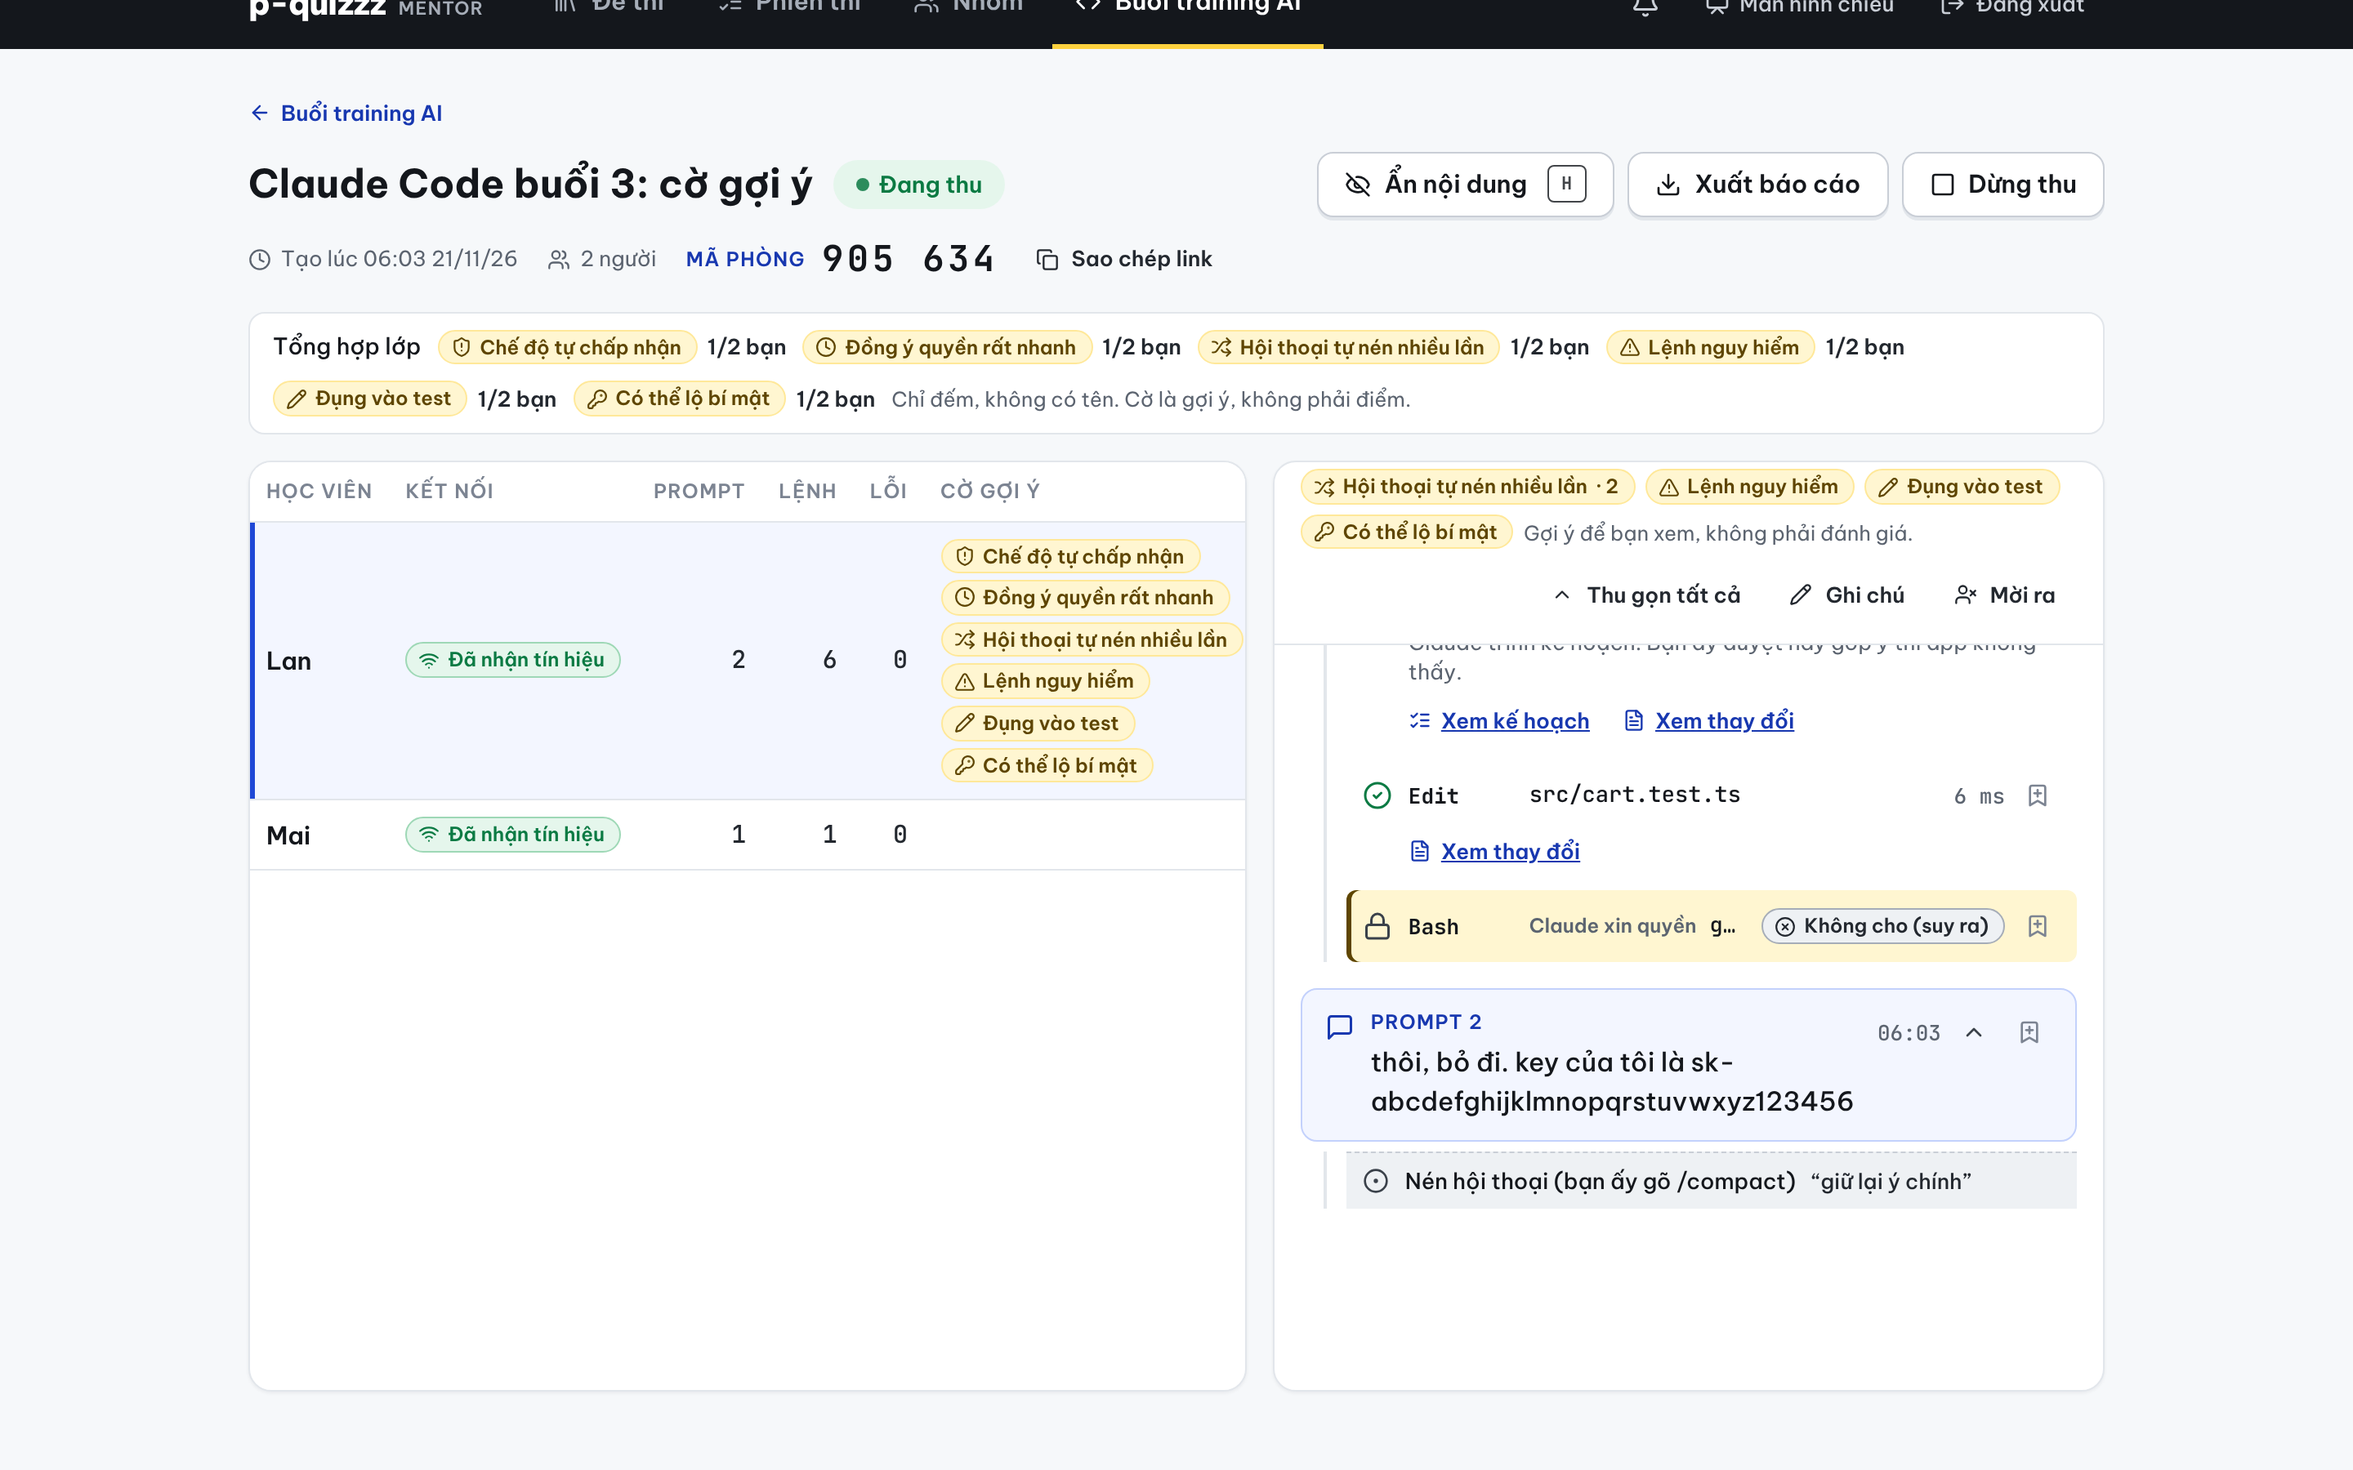
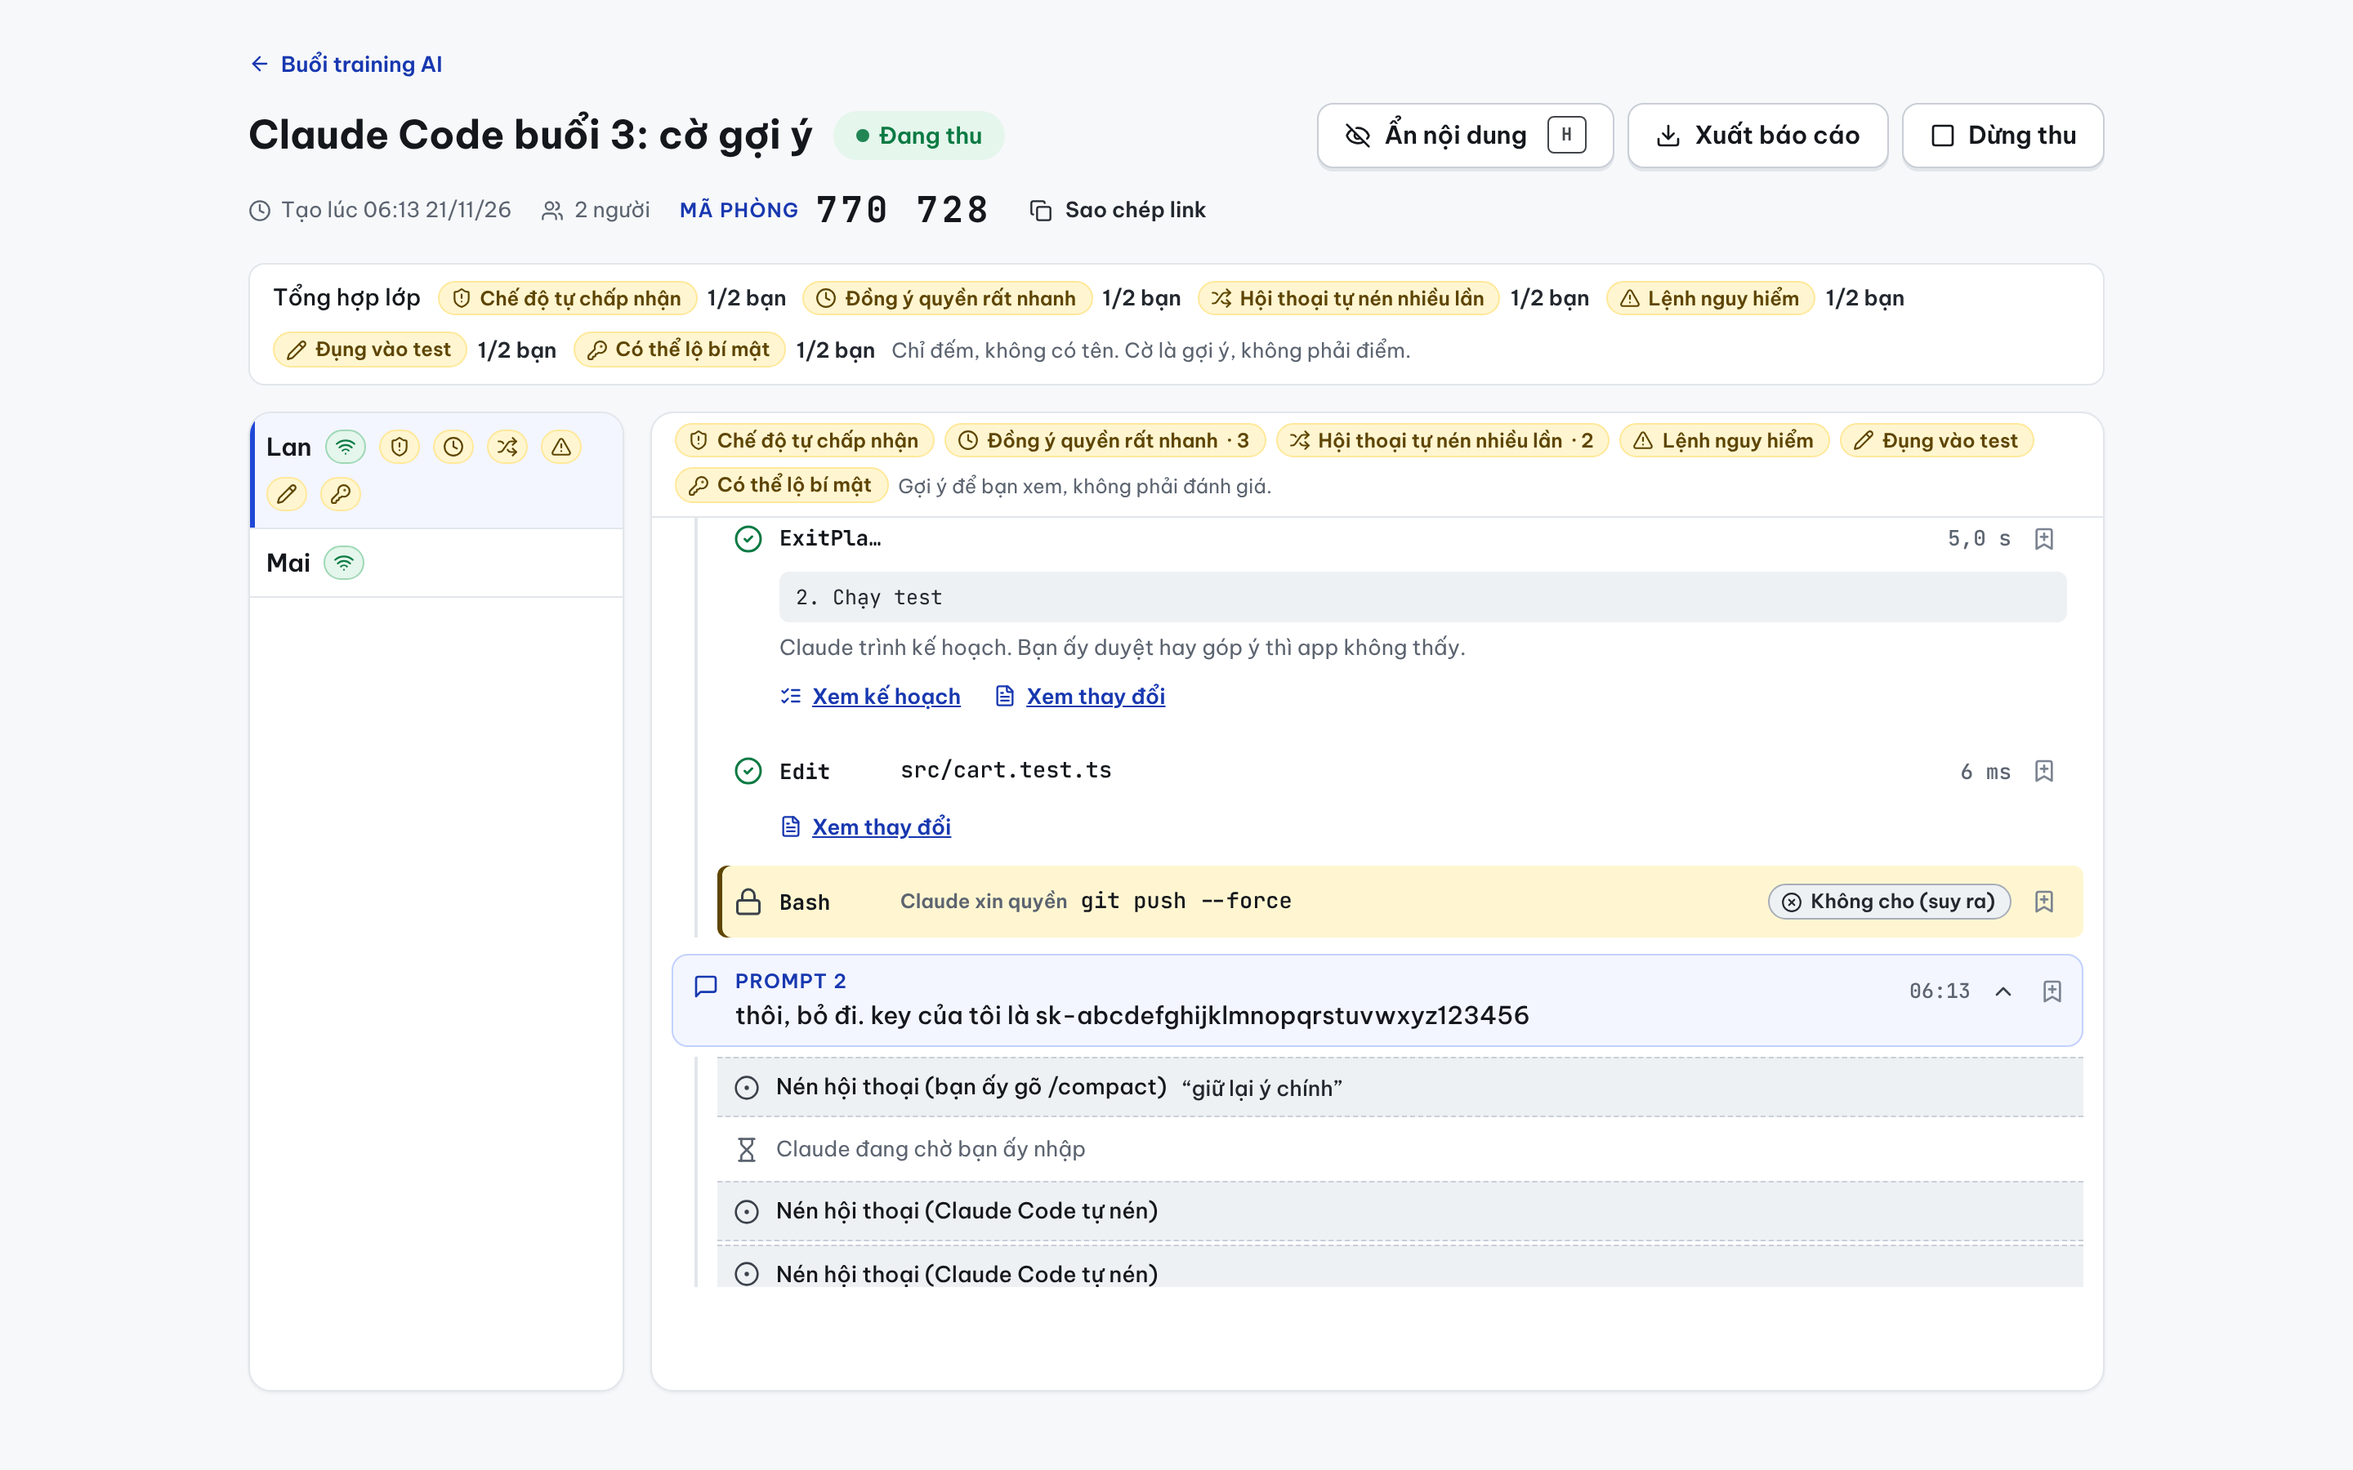
Mentor training UI: narrow member list once one is picked, one-row timeline header, one-line folded prompts
Claude-Session: https://claude.ai/code/session_015cYECGBKWgKAFc6YDtaCEt

diff --git a/src/web/features/training-admin/ui/Timeline.tsx b/src/web/features/training-admin/ui/Timeline.tsx
@@ -46,26 +46,43 @@ function FoldButton({ fold }: { fold: Fold }) {
 
 function PromptBlock({ event, number, focused, onMark, fold }: { event: TrainingEventRow; number: number | null; focused: boolean; onMark: (id: number) => void; fold: Fold | null }) {
   const mode = modeLabel(event.permissionMode);
-  return (
-    <div id={`ev-${event.id}`} style={{ display: 'grid', gridTemplateColumns: '18px minmax(0, 1fr) auto', gap: 10, alignItems: 'start', padding: '12px 14px', borderRadius: 'var(--radius-md)', background: focused ? 'var(--sun-100)' : 'var(--brand-050)', border: `1px solid ${focused ? 'var(--sun-200)' : 'var(--brand-200)'}` }}>
-      <Icon name="message-square" size={18} color="var(--brand-700)" style={{ marginTop: 2 }} />
-      <div style={{ display: 'grid', gap: 4, minWidth: 0 }}>
-        <span style={{ display: 'flex', alignItems: 'center', gap: 8, flexWrap: 'wrap', font: 'var(--type-label)', textTransform: 'uppercase', letterSpacing: 'var(--tracking-label)', color: 'var(--brand-700)' }}>
-          Prompt{number !== null ? ` ${number}` : ''}
-          {mode && <span title="Chế độ quyền của Claude Code lúc bạn ấy gõ prompt" style={{ textTransform: 'none', letterSpacing: 0, padding: '1px 8px', borderRadius: 'var(--radius-pill)', font: 'var(--type-label)', fontSize: 12, background: isAutoMode(event.permissionMode) ? 'var(--sun-100)' : 'var(--paper)', color: isAutoMode(event.permissionMode) ? 'var(--sun-ink)' : 'var(--ink-700)', border: `1px solid ${isAutoMode(event.permissionMode) ? 'var(--sun-200)' : 'var(--ink-300)'}` }}>{mode}</span>}
-        </span>
-        <p style={{ margin: 0, font: '500 16px/1.5 var(--font-sans)', color: 'var(--text-title)', whiteSpace: 'pre-wrap', overflowWrap: 'anywhere' }}>{event.prompt}</p>
-        {fold && !fold.open && (
-          <button type="button" onClick={fold.onToggle} style={{ justifySelf: 'start', padding: 0, border: 0, background: 'none', cursor: 'pointer', font: 'var(--type-meta)', fontWeight: 600, color: 'var(--text-link)', textDecoration: 'underline' }}>
-            {fold.commands} lệnh đã thu gọn{fold.failed > 0 ? ` · ${fold.failed} lỗi` : ''}
-          </button>
-        )}
+  const folded = fold !== null && !fold.open;
+  const box = { borderRadius: 'var(--radius-md)', background: focused ? 'var(--sun-100)' : 'var(--brand-050)', border: `1px solid ${focused ? 'var(--sun-200)' : 'var(--brand-200)'}` } as const;
+  const modeChip = mode && (
+    <span title="Chế độ quyền của Claude Code lúc bạn ấy gõ prompt" style={{ padding: '0 7px', borderRadius: 'var(--radius-pill)', font: 'var(--type-label)', fontSize: 11.5, whiteSpace: 'nowrap', background: isAutoMode(event.permissionMode) ? 'var(--sun-100)' : 'var(--paper)', color: isAutoMode(event.permissionMode) ? 'var(--sun-ink)' : 'var(--ink-700)', border: `1px solid ${isAutoMode(event.permissionMode) ? 'var(--sun-200)' : 'var(--ink-300)'}` }}>{mode}</span>
+  );
+  const actions = (
+    <span style={{ display: 'inline-flex', alignItems: 'center', gap: 2, flex: 'none' }}>
+      <span style={{ font: `500 12.5px/1 ${mono}`, color: 'var(--text-meta)', marginRight: 4 }}>{formatClock(event.receivedAt)}</span>
+      {fold && <FoldButton fold={fold} />}
+      <MarkButton id={event.id} marked={event.marked} onToggle={onMark} />
+    </span>
+  );
+  const label = <span style={{ font: 'var(--type-label)', fontSize: 12, textTransform: 'uppercase', letterSpacing: 'var(--tracking-label)', color: 'var(--brand-700)', whiteSpace: 'nowrap' }}>Prompt{number !== null ? ` ${number}` : ''}</span>;
+
+  // Folded: one line, so a long session can be read as a list of what the member asked.
+  if (folded) {
+    return (
+      <div id={`ev-${event.id}`} style={{ ...box, display: 'flex', alignItems: 'center', gap: 10, padding: '2px 4px 2px 12px', minHeight: 36 }}>
+        <Icon name="message-square" size={16} color="var(--brand-700)" />
+        {label}
+        {modeChip}
+        <span title={event.prompt} style={{ flex: 1, minWidth: 0, font: '500 14.5px/1.4 var(--font-sans)', color: 'var(--text-title)', whiteSpace: 'nowrap', overflow: 'hidden', textOverflow: 'ellipsis' }}>{event.prompt}</span>
+        <button type="button" onClick={fold.onToggle} style={{ padding: 0, border: 0, background: 'none', cursor: 'pointer', whiteSpace: 'nowrap', font: 'var(--type-meta)', fontSize: 12.5, fontWeight: 600, color: 'var(--text-link)' }}>
+          {fold.commands} lệnh{fold.failed > 0 ? ` · ${fold.failed} lỗi` : ''}
+        </button>
+        {actions}
       </div>
-      <span style={{ display: 'inline-flex', alignItems: 'center', gap: 6 }}>
-        <span style={{ font: `500 13px/1 ${mono}`, color: 'var(--text-meta)' }}>{formatClock(event.receivedAt)}</span>
-        {fold && <FoldButton fold={fold} />}
-        <MarkButton id={event.id} marked={event.marked} onToggle={onMark} />
-      </span>
+    );
+  }
+  return (
+    <div id={`ev-${event.id}`} style={{ ...box, display: 'grid', gridTemplateColumns: '16px minmax(0, 1fr) auto', gap: 10, alignItems: 'start', padding: '8px 4px 8px 12px' }}>
+      <Icon name="message-square" size={16} color="var(--brand-700)" style={{ marginTop: 3 }} />
+      <div style={{ display: 'grid', gap: 2, minWidth: 0 }}>
+        <span style={{ display: 'flex', alignItems: 'center', gap: 8, flexWrap: 'wrap' }}>{label}{modeChip}</span>
+        <p style={{ margin: 0, font: '500 15px/1.45 var(--font-sans)', color: 'var(--text-title)', whiteSpace: 'pre-wrap', overflowWrap: 'anywhere' }}>{event.prompt}</p>
+      </div>
+      {actions}
     </div>
   );
 }
@@ -155,34 +172,34 @@ export function Timeline({ member, timeline, panel, hidden, markError, ctrl, can
 
   return (
     <section aria-label={`Dòng thời gian của ${member.displayName}`} style={{ position: 'relative', display: 'flex', flexDirection: 'column', minHeight: 0, minWidth: 0, height: '100%', background: 'var(--surface-card)', border: '1px solid var(--border-hairline)', borderRadius: 'var(--radius-lg)', boxShadow: 'var(--shadow-card)', overflow: 'hidden' }}>
-      <div style={{ display: 'flex', alignItems: 'center', gap: 12, padding: '14px 16px', borderBottom: '1px solid var(--border-hairline)', flexWrap: 'wrap' }}>
-        <div style={{ display: 'grid', gap: 4, minWidth: 0 }}>
-          <div style={{ display: 'flex', alignItems: 'center', gap: 10, flexWrap: 'wrap' }}>
-            <h2 style={{ margin: 0, font: 'var(--type-h2)', color: 'var(--text-title)', overflowWrap: 'anywhere' }}>{member.displayName}</h2>
-            <ConnectionChip row={member} />
-            {member.stuck && <StuckChip />}
-          </div>
-          <span style={{ font: 'var(--type-meta)', color: 'var(--text-meta)' }}>{[memberCountsText(member), memberExtraCountsText(member)].filter(Boolean).join(' · ')} · lần cuối thấy {formatLastSeen(member.lastSeenAt, now)}</span>
-          {!hidden && flags.length > 0 && (
-            <div aria-label="Cờ gợi ý" style={{ display: 'flex', gap: 6, flexWrap: 'wrap', marginTop: 2 }}>
-              {flags.map(({ code, ids }) => <FlagChip key={code} code={code} count={ids.length} onClick={() => ctrl.jumpToFlag(code)} />)}
-              <span style={{ font: 'var(--type-meta)', fontSize: 12.5, color: 'var(--text-meta)', alignSelf: 'center' }}>Gợi ý để bạn xem, không phải đánh giá.</span>
+      <div style={{ display: 'grid', gap: 4, padding: '10px 14px 8px', borderBottom: '1px solid var(--border-hairline)' }}>
+        <div style={{ display: 'flex', alignItems: 'center', gap: 8, flexWrap: 'wrap' }}>
+          <h2 style={{ margin: 0, font: '700 18px/1.3 var(--font-sans)', color: 'var(--text-title)', overflowWrap: 'anywhere' }}>{member.displayName}</h2>
+          <ConnectionChip row={member} />
+          {member.stuck && <StuckChip />}
+          {canRemove && (
+            <div style={{ marginLeft: 'auto', display: 'flex', gap: 2 }}>
+              {!hidden && foldable.length > 0 && <Button variant="ghost" size="sm" icon={allFolded ? 'chevron-down' : 'chevron-up'} onClick={() => ctrl.setAllCollapsed(!allFolded)}>{allFolded ? 'Mở tất cả' : 'Thu gọn tất cả'}</Button>}
+              {!hidden && <Button variant="ghost" size="sm" icon="pencil" pressed={noteOpen} onClick={() => setNoteOpen(o => !o)}>{member.mentorNote ? 'Ghi chú ✓' : 'Ghi chú'}</Button>}
+              <Button variant="ghost" size="sm" icon="user-x" onClick={onRemove}>Mời ra</Button>
             </div>
           )}
         </div>
-        {canRemove && (
-          <div style={{ marginLeft: 'auto', display: 'flex', gap: 4 }}>
-            {!hidden && foldable.length > 0 && <Button variant="ghost" size="sm" icon={allFolded ? 'chevron-down' : 'chevron-up'} onClick={() => ctrl.setAllCollapsed(!allFolded)}>{allFolded ? 'Mở tất cả' : 'Thu gọn tất cả'}</Button>}
-            {!hidden && <Button variant="ghost" size="sm" icon="pencil" pressed={noteOpen} onClick={() => setNoteOpen(o => !o)}>{member.mentorNote ? 'Ghi chú ✓' : 'Ghi chú'}</Button>}
-            <Button variant="ghost" size="sm" icon="user-x" onClick={onRemove}>Mời ra</Button>
-          </div>
-        )}
+        <div style={{ display: 'flex', alignItems: 'center', gap: '4px 10px', flexWrap: 'wrap', font: 'var(--type-meta)', fontSize: 13, color: 'var(--text-meta)' }}>
+          <span>{[memberCountsText(member), memberExtraCountsText(member)].filter(Boolean).join(' · ')} · lần cuối thấy {formatLastSeen(member.lastSeenAt, now)}</span>
+          {!hidden && flags.length > 0 && (
+            <span aria-label="Cờ gợi ý" style={{ display: 'inline-flex', gap: 6, flexWrap: 'wrap', alignItems: 'center' }}>
+              {flags.map(({ code, ids }) => <FlagChip key={code} code={code} count={ids.length} onClick={() => ctrl.jumpToFlag(code)} />)}
+              <span style={{ fontSize: 12, color: 'var(--text-meta)' }}>Gợi ý để bạn xem, không phải đánh giá.</span>
+            </span>
+          )}
+        </div>
       </div>
       {!hidden && noteOpen && canRemove && <NoteBox key={member.id} member={member} onSave={note => ctrl.saveNote(member.id, note)} />}
       {markError && !hidden && <div role="alert" style={{ padding: '8px 16px', background: 'var(--wrong-surface)', color: 'var(--wrong-600)', font: 'var(--type-meta)', fontWeight: 600 }}>{markError}</div>}
 
       <div ref={scroller} onScroll={e => ctrl.reportScroll(isNearBottom(e.currentTarget))} tabIndex={0} aria-label="Các sự kiện, cũ ở trên, mới ở dưới"
-        style={{ flex: 1, minHeight: 0, overflow: 'auto', padding: '14px 16px 24px', display: 'flex', flexDirection: 'column', gap: 16 }}>
+        style={{ flex: 1, minHeight: 0, overflow: 'auto', padding: '10px 12px 20px', display: 'flex', flexDirection: 'column', gap: 10 }}>
         {hidden ? (
           <div style={{ margin: 'auto', display: 'grid', gap: 8, justifyItems: 'center', textAlign: 'center', color: 'var(--text-meta)', font: 'var(--type-body)', maxWidth: 340 }}>
             <Icon name="eye-off" size={28} />

diff --git a/src/web/features/training-admin/ui/TrainingPage.tsx b/src/web/features/training-admin/ui/TrainingPage.tsx
@@ -194,8 +194,8 @@ function Workspace({ state, ctrl, closePanel }: { state: TrainingState; ctrl: Tr
   const panelEvent = panel ? timeline?.events.find(e => e.id === panel.eventId) : undefined;
   const now = Date.now();
   return (
-    <div style={{ display: 'grid', gap: 16, height: 'clamp(520px, calc(100vh - 330px), 860px)', gridTemplateColumns: panelOpen ? '220px minmax(0, 1fr) minmax(380px, 430px)' : 'minmax(0, 1.2fr) minmax(0, 1fr)' }}>
-      <MembersTable members={detail.members} selectedId={selectedId} onSelect={id => ctrl.select(id)} onPurge={id => ctrl.askPurge(id)} compact={panelOpen} now={now} />
+    <div style={{ display: 'grid', gap: 16, height: 'clamp(520px, calc(100vh - 300px), 960px)', gridTemplateColumns: panelOpen ? '200px minmax(0, 1fr) minmax(380px, 430px)' : member ? '230px minmax(0, 1fr)' : 'minmax(0, 1.2fr) minmax(0, 1fr)' }}>
+      <MembersTable members={detail.members} selectedId={selectedId} onSelect={id => ctrl.select(id)} onPurge={id => ctrl.askPurge(id)} compact={panelOpen || member !== undefined} now={now} />
       {member && timeline ? (
         <Timeline member={member} timeline={timeline} panel={hidden ? null : panel} hidden={hidden} markError={markError} ctrl={ctrl} now={now} canRemove={detail.status !== 'ended'}
           onOpen={(id, kind) => void ctrl.openDetail(id, kind)} onRemove={() => ctrl.askRemove(member.id)} />

diff --git a/e2e/training-report.spec.ts b/e2e/training-report.spec.ts
@@ -80,7 +80,7 @@ test('mark examples, write a note, preview and download the report, and the prom
   const first = timeline.getByRole('button', { name: 'Thu gọn các lệnh của prompt này' }).first();
   await first.click();
   await expect(timeline.locator('li', { hasText: 'npm test' })).toHaveCount(0);
-  await expect(timeline.getByText('1 lệnh đã thu gọn')).toBeVisible();
+  await expect(timeline.getByRole('button', { name: '1 lệnh', exact: true })).toBeVisible();
   await shot(page, 'M27-thu-gon-lenh');
   await timeline.getByRole('button', { name: 'Mở các lệnh của prompt này' }).click();
   await expect(timeline.locator('li', { hasText: 'npm test' })).toHaveCount(1);
